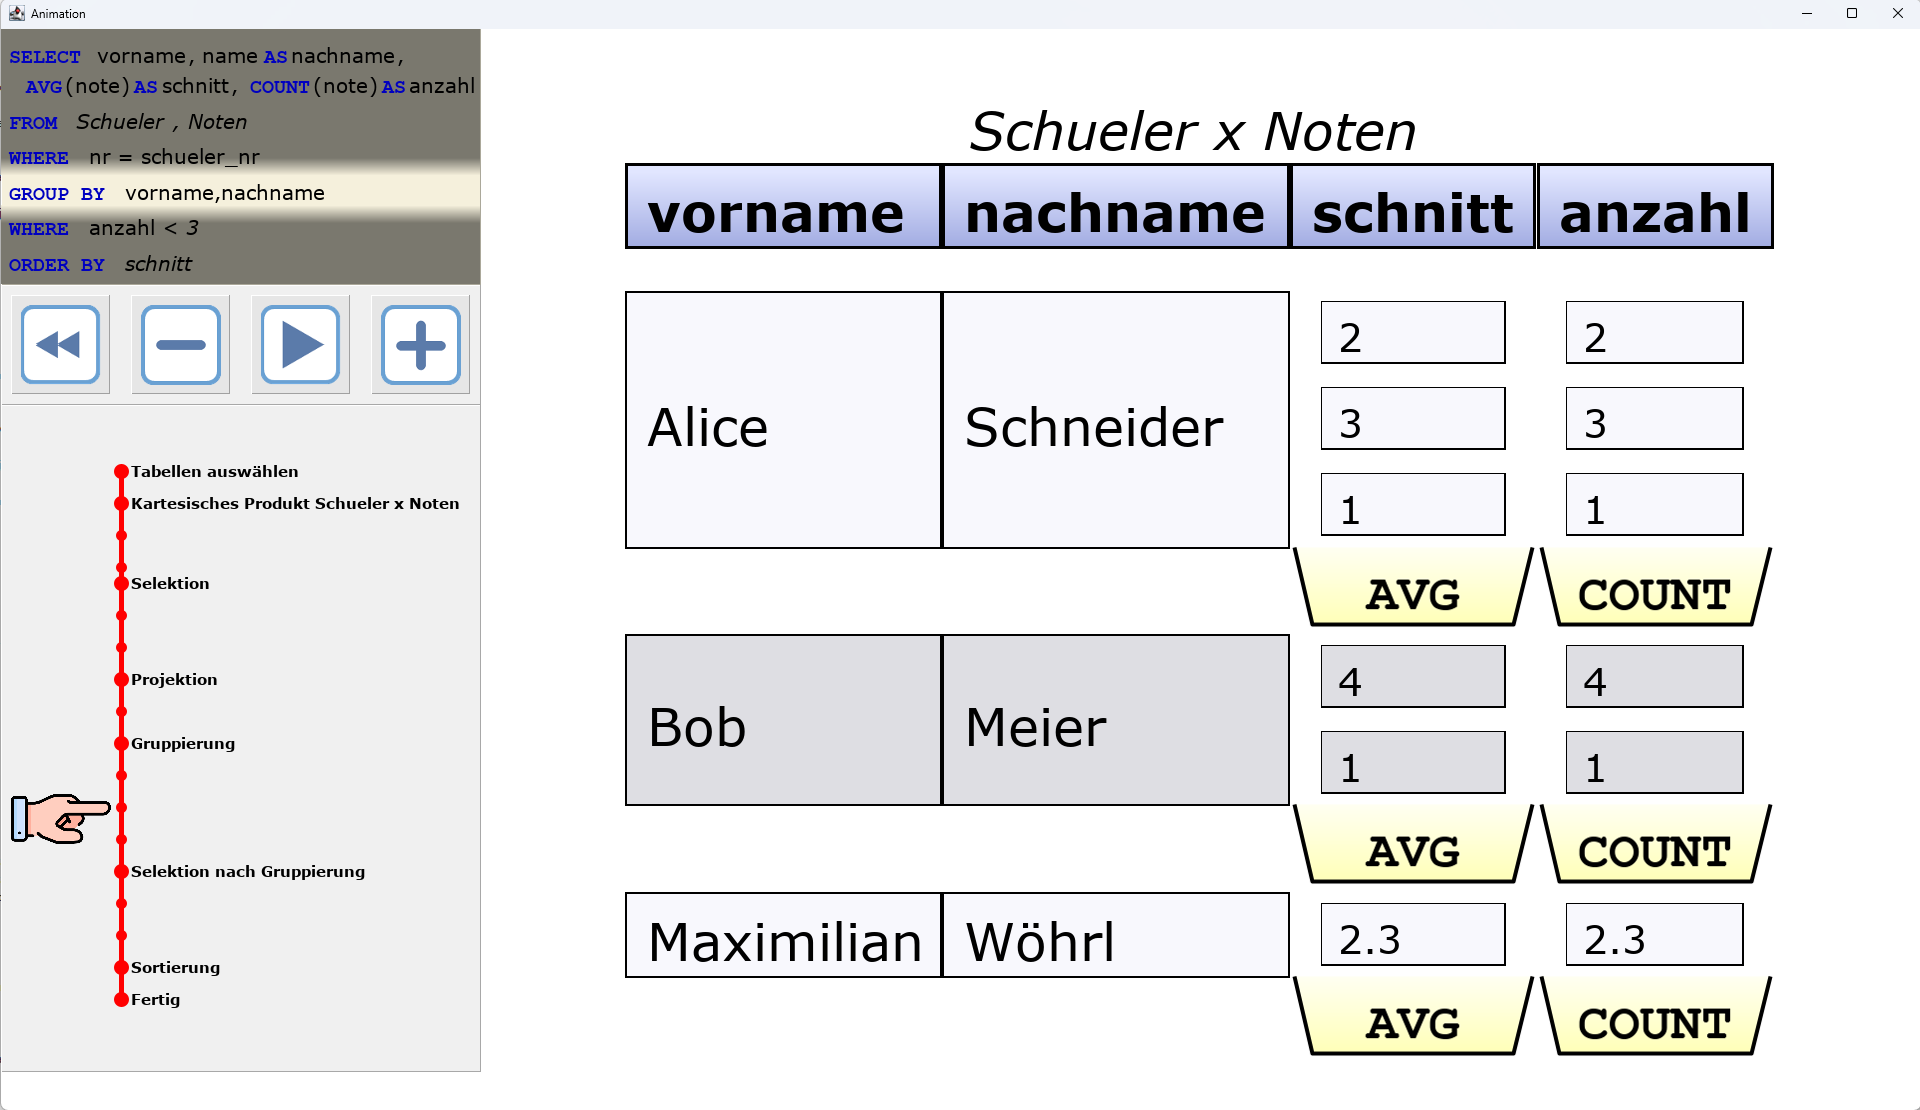
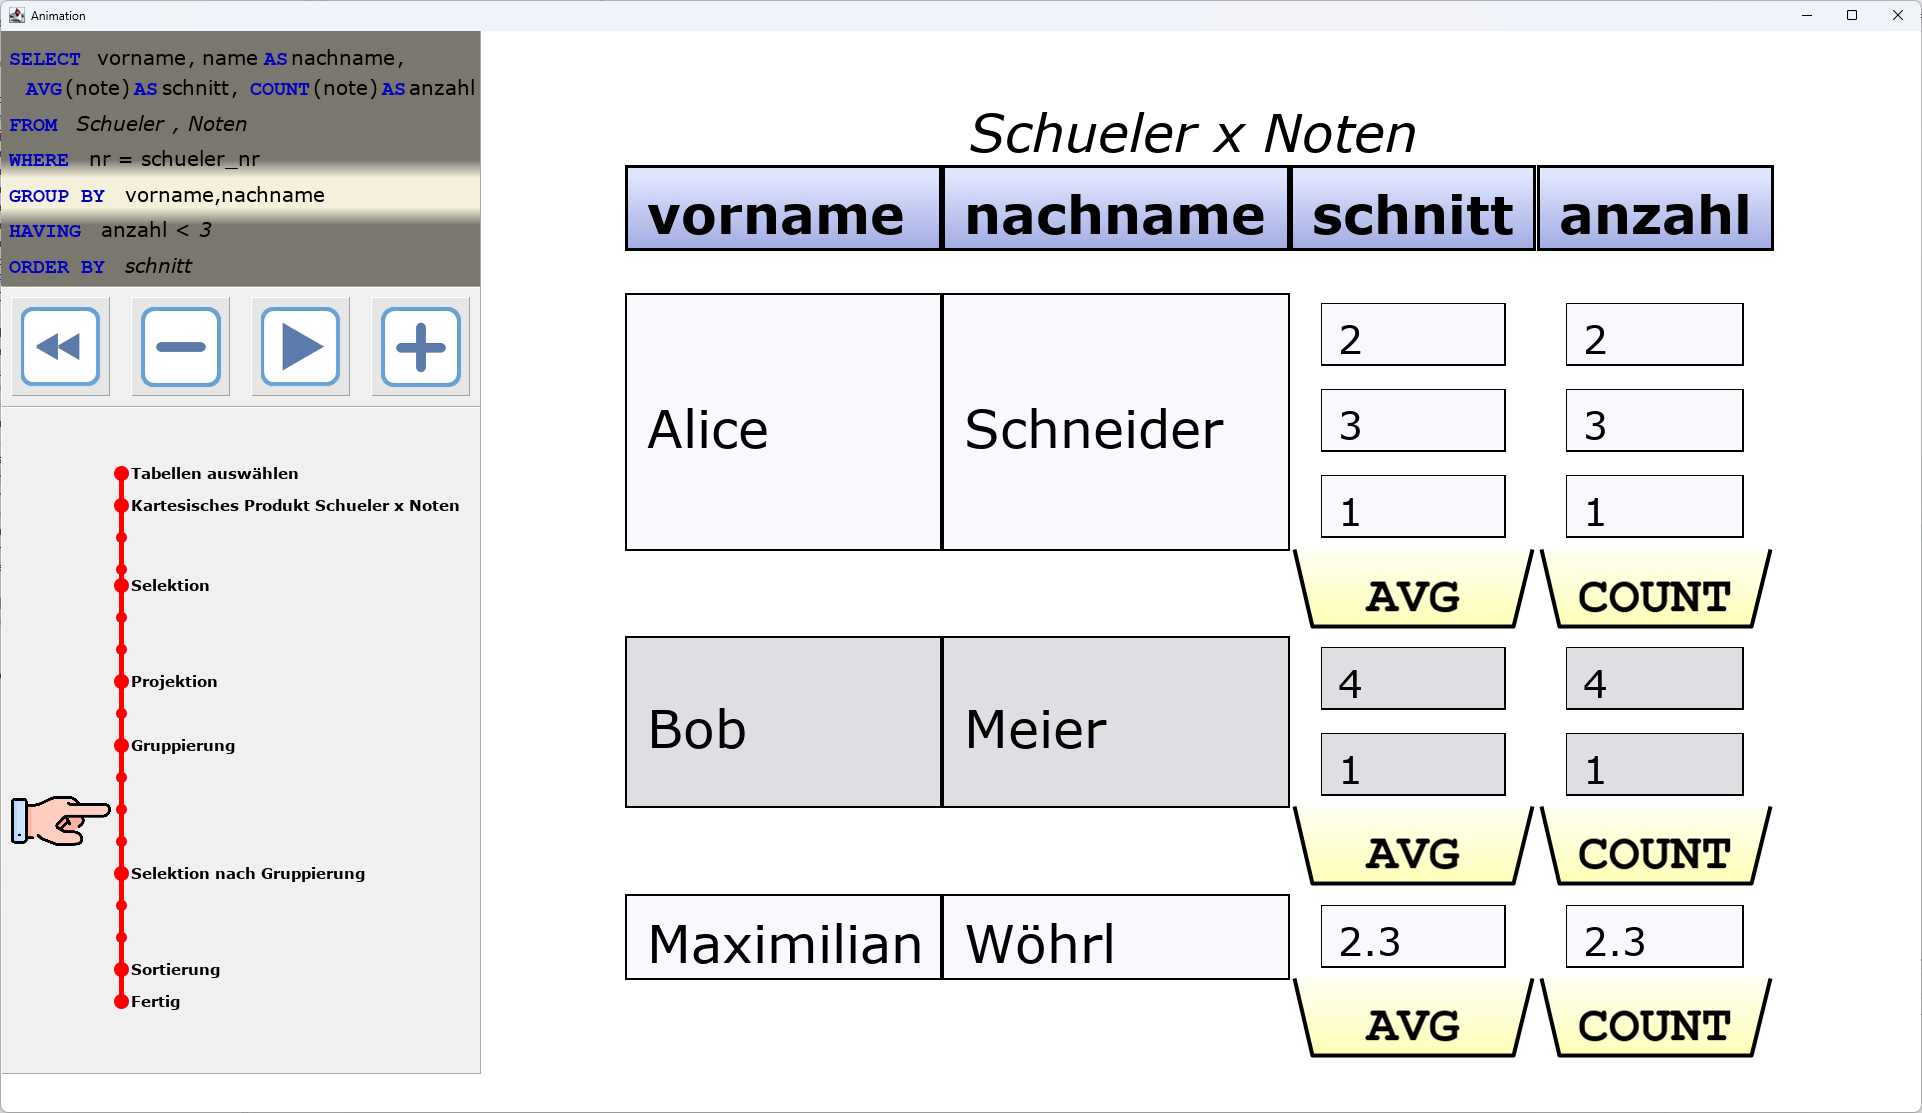
fix HAVING keyword

diff --git a/src/de/mwoehrl/sqlanimator/MainClass.java b/src/de/mwoehrl/sqlanimator/MainClass.java
@@ -1,5 +1,7 @@
 package de.mwoehrl.sqlanimator;
 
+import java.awt.Dimension;
+import java.awt.Toolkit;
 import java.awt.geom.Rectangle2D;
 import java.io.BufferedReader;
 import java.io.File;
@@ -23,7 +25,10 @@ import de.mwoehrl.sqlanimator.renderer.QueryCanvas;
 public class MainClass {
 	
 	public static void main(String[] args) throws Exception {
-		int overallWidth = 1920;
+		Dimension screenSize = Toolkit.getDefaultToolkit().getScreenSize();
+		double screenwidth = screenSize.getWidth();
+
+		int overallWidth = screenwidth < 1920 ? (int)screenwidth : 1920;
 		int overallHeight = overallWidth * 9 / 16;
 		int queryWidth = overallWidth / 4;
 		AllRelationCanvas.screenWidth = overallWidth - queryWidth;

diff --git a/src/de/mwoehrl/sqlanimator/renderer/QueryCanvas.java b/src/de/mwoehrl/sqlanimator/renderer/QueryCanvas.java
@@ -111,7 +111,7 @@ public class QueryCanvas extends RenderCanvas {
 		if (query.having != null) {
 			ExpressionToken[] allWhereTokens = query.having.getWhereCondition().getAllTokens();
 			textCells[queryRow] = new TextCanvas[1 + allWhereTokens.length];
-			textCells[queryRow][0] = new TextCanvas("WHERE ", null, "Courier New", Font.BOLD, keywordColor);
+			textCells[queryRow][0] = new TextCanvas("HAVING ", null, "Courier New", Font.BOLD, keywordColor);
 			for (int i = 0; i < allWhereTokens.length; i++) {
 				boolean isColumn = allWhereTokens[i].type==TokenType.Column;
 				textCells[queryRow][i + 1] = new TextCanvas(allWhereTokens[i].text, null, "Verdana", isColumn ? 0 : Font.ITALIC, Color.BLACK);
